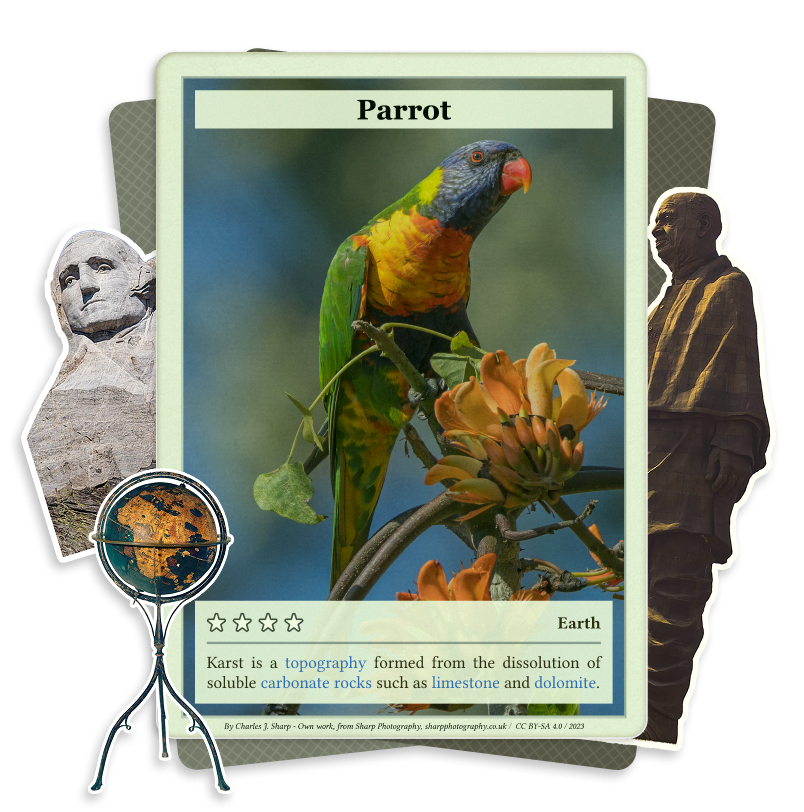
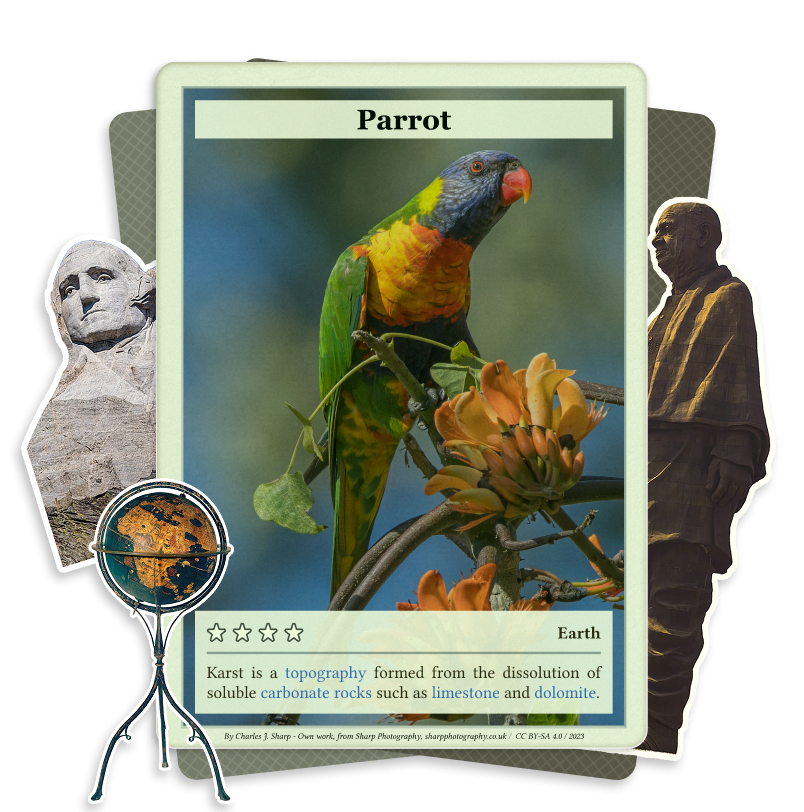
update colors

diff --git a/src/style.css b/src/style.css
@@ -127,7 +127,7 @@
   --color-rarity-legendary-bg: #fdf6e3;
 
   /* Main Category Tint Colors — Applied with hard-light blend on cards */
-  --color-category-civilization: #948877;
+  --color-category-civilization: #9F7262;
   --color-category-civilization-bg: #f5f0e8;
   --color-category-civilization-bg-hover: #ebe4d8;
   --color-category-civilization-dark-bg: #2d2a27;
@@ -211,7 +211,7 @@
   --color-category-animals-icon-bg-dark: var(--color-category-nature-icon-bg-dark);
 
   /* Earth Theme (Desaturated Ochre/Gold) */
-  --color-category-earth: #8C826C;
+  --color-category-earth: #7E8C75;
   --color-category-earth-bg: #f4f0e6;
   --color-category-earth-bg-hover: #ebe5da;
   --color-category-earth-dark-bg: #2d2922;
@@ -263,7 +263,7 @@
   --color-category-physical-science-icon-bg-dark: var(--color-category-science-icon-bg-dark);
 
   /* Society Theme (Warm Tan - Civilization alias) */
-  --color-category-society: var(--color-category-civilization);
+  --color-category-society: #948877;
   --color-category-society-bg: var(--color-category-civilization-bg);
   --color-category-society-bg-hover: var(--color-category-civilization-bg-hover);
   --color-category-society-dark-bg: var(--color-category-civilization-dark-bg);
@@ -276,7 +276,7 @@
   --color-category-society-icon-bg-dark: var(--color-category-civilization-icon-bg-dark);
 
   /* Sports Theme (Desaturated Teal) */
-  --color-category-sports: #5F8A82;
+  --color-category-sports: #6F91A4;
   --color-category-sports-bg: #e9f1ef;
   --color-category-sports-bg-hover: #d7e7e3;
   --color-category-sports-dark-bg: #1f2a28;
